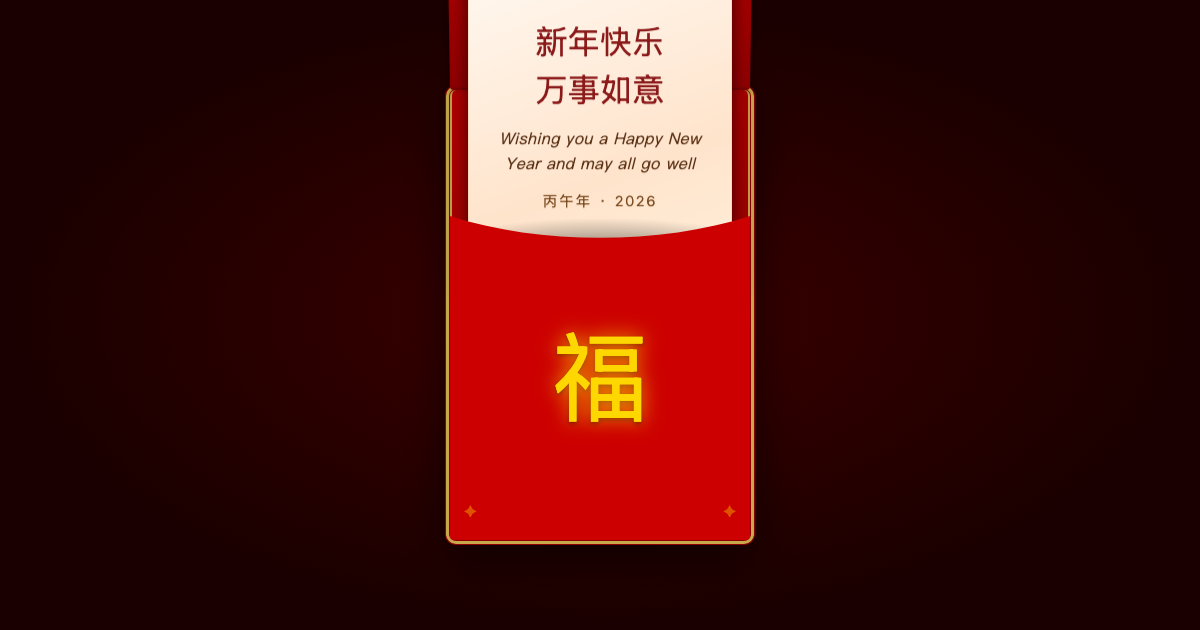
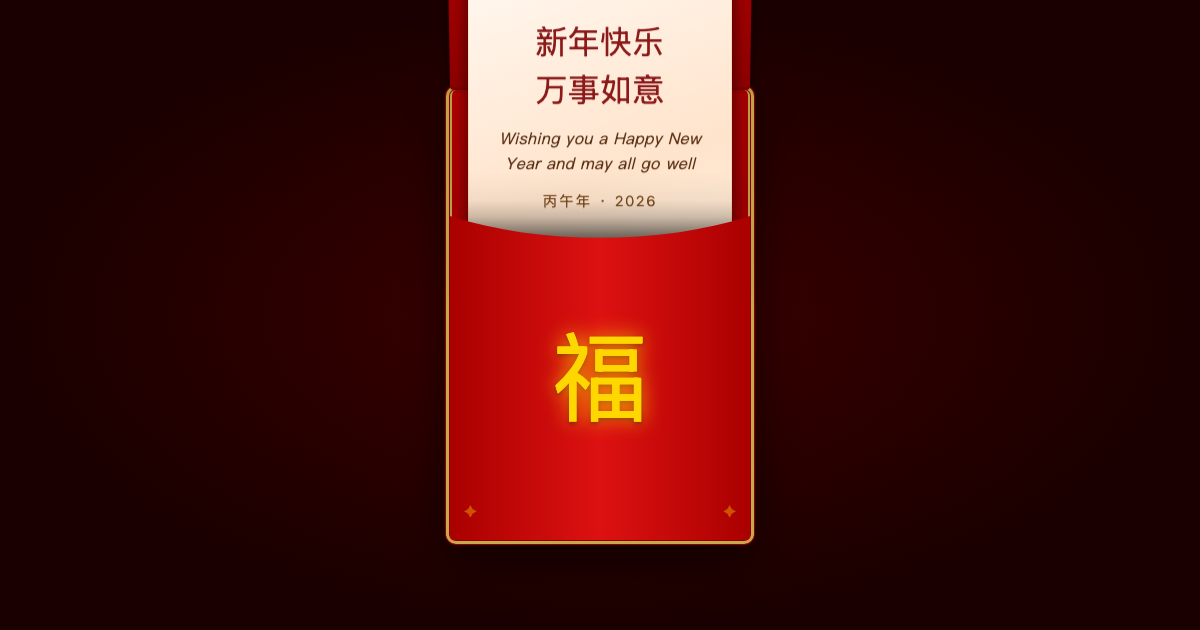
feat: convex front gradient, open-state paper shadow animation
- Front panel: left-to-right gradient for convex 3D appearance
- Open state: gradient pseudo on paper darkens near envelope lip
- Shadow settles into position slower than card slide for realism
- Update preview screenshots

Changed region(s): [[0.37, 0.3016, 0.6475, 0.8746]]

diff --git a/index.html b/index.html
@@ -78,7 +78,7 @@
       top: 28%;
       height: 72%;
       position: relative;
-      background: #CC0000;
+      background: linear-gradient(to right, #AA0000 0%, #DD1111 50%, #AA0000 100%);
       border-radius: 0 0 4px 4px;
       clip-path: url(#front-concave);
       z-index: 3;
@@ -235,18 +235,25 @@
     }
 
     /* Shadow from front panel's concave edge onto paper.
-       z-3 matches front — paints before it in DOM order, visible through concave cutout.
-       Flap (z-4 → z-1) naturally reveals this as it rotates away. */
-    .envelope.is-open::before {
+       Gradient on paper ::after darkens the lower visible area where the
+       front panel covers it, simulating a cast shadow. */
+    .envelope.is-open .envelope-paper::after {
       content: '';
       position: absolute;
-      top: 26%;
       left: 0;
       width: 100%;
-      height: 12%;
-      background: radial-gradient(ellipse 80% 100% at 50% 100%, rgba(0,0,0,0.6) 0%, transparent 80%);
-      z-index: 3;
+      bottom: 15%;
+      height: 20%;
+      background: linear-gradient(to bottom,
+        transparent 0%,
+        rgba(0,0,0,0.05) 35%,
+        rgba(0,0,0,0.2) 55%,
+        rgba(0,0,0,0.5) 75%,
+        rgba(0,0,0,0.85) 100%
+      );
       pointer-events: none;
+      animation: shadow-settle 1.8s cubic-bezier(0.22, 1, 0.36, 1) 1s forwards;
+      opacity: 0;
     }
 
     /* ── Paper Card ───────────────────────────────────────────────── */
@@ -269,6 +276,11 @@
     @keyframes card-slide {
       from { transform: translateY(0); }
       to   { transform: translateY(-60%); }
+    }
+
+    @keyframes shadow-settle {
+      from { bottom: 45%; opacity: 0; }
+      to   { bottom: 15%; opacity: 1; }
     }
 
     .envelope.is-open .envelope-paper {
